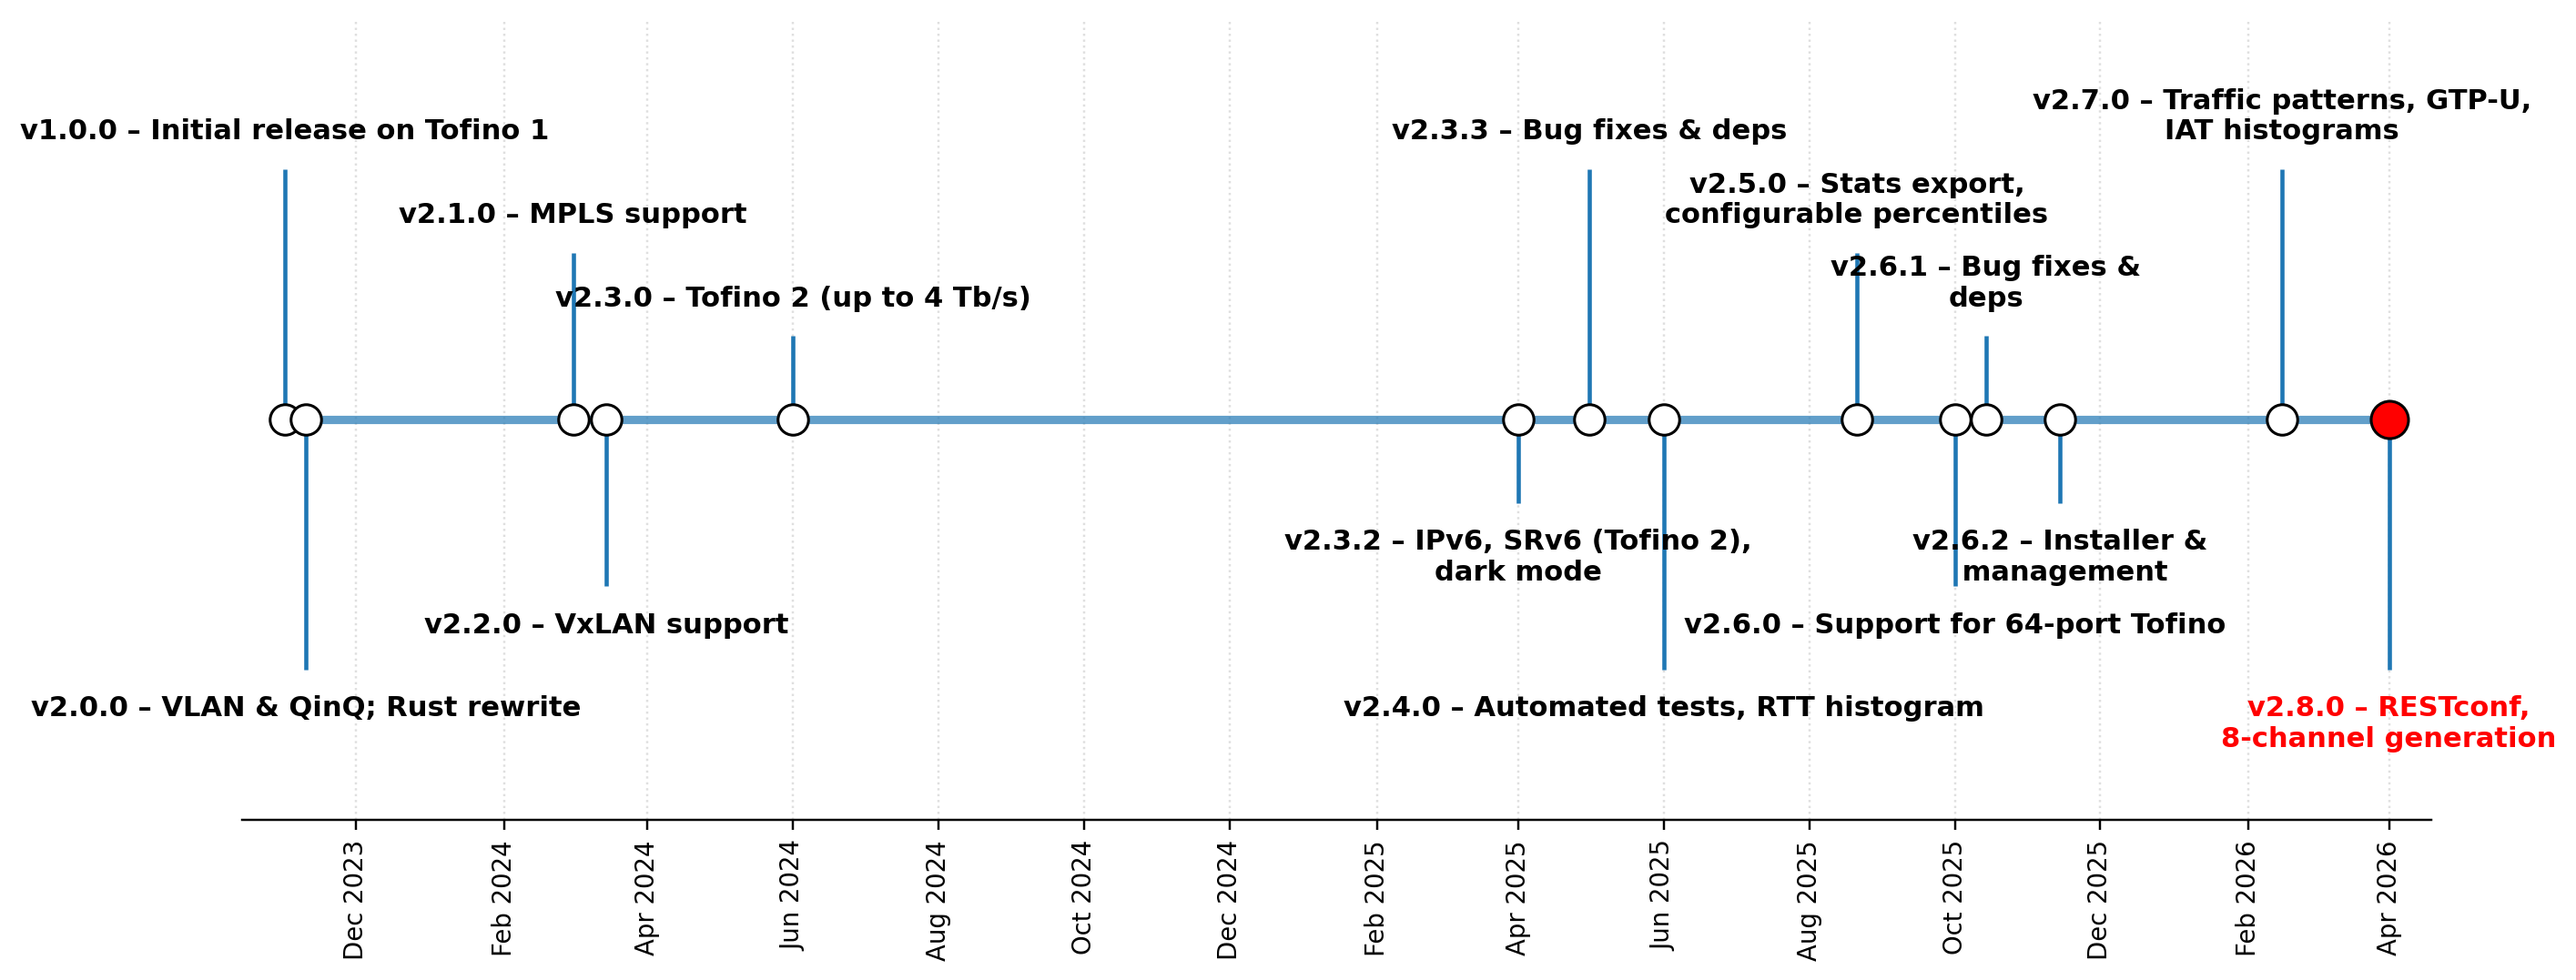
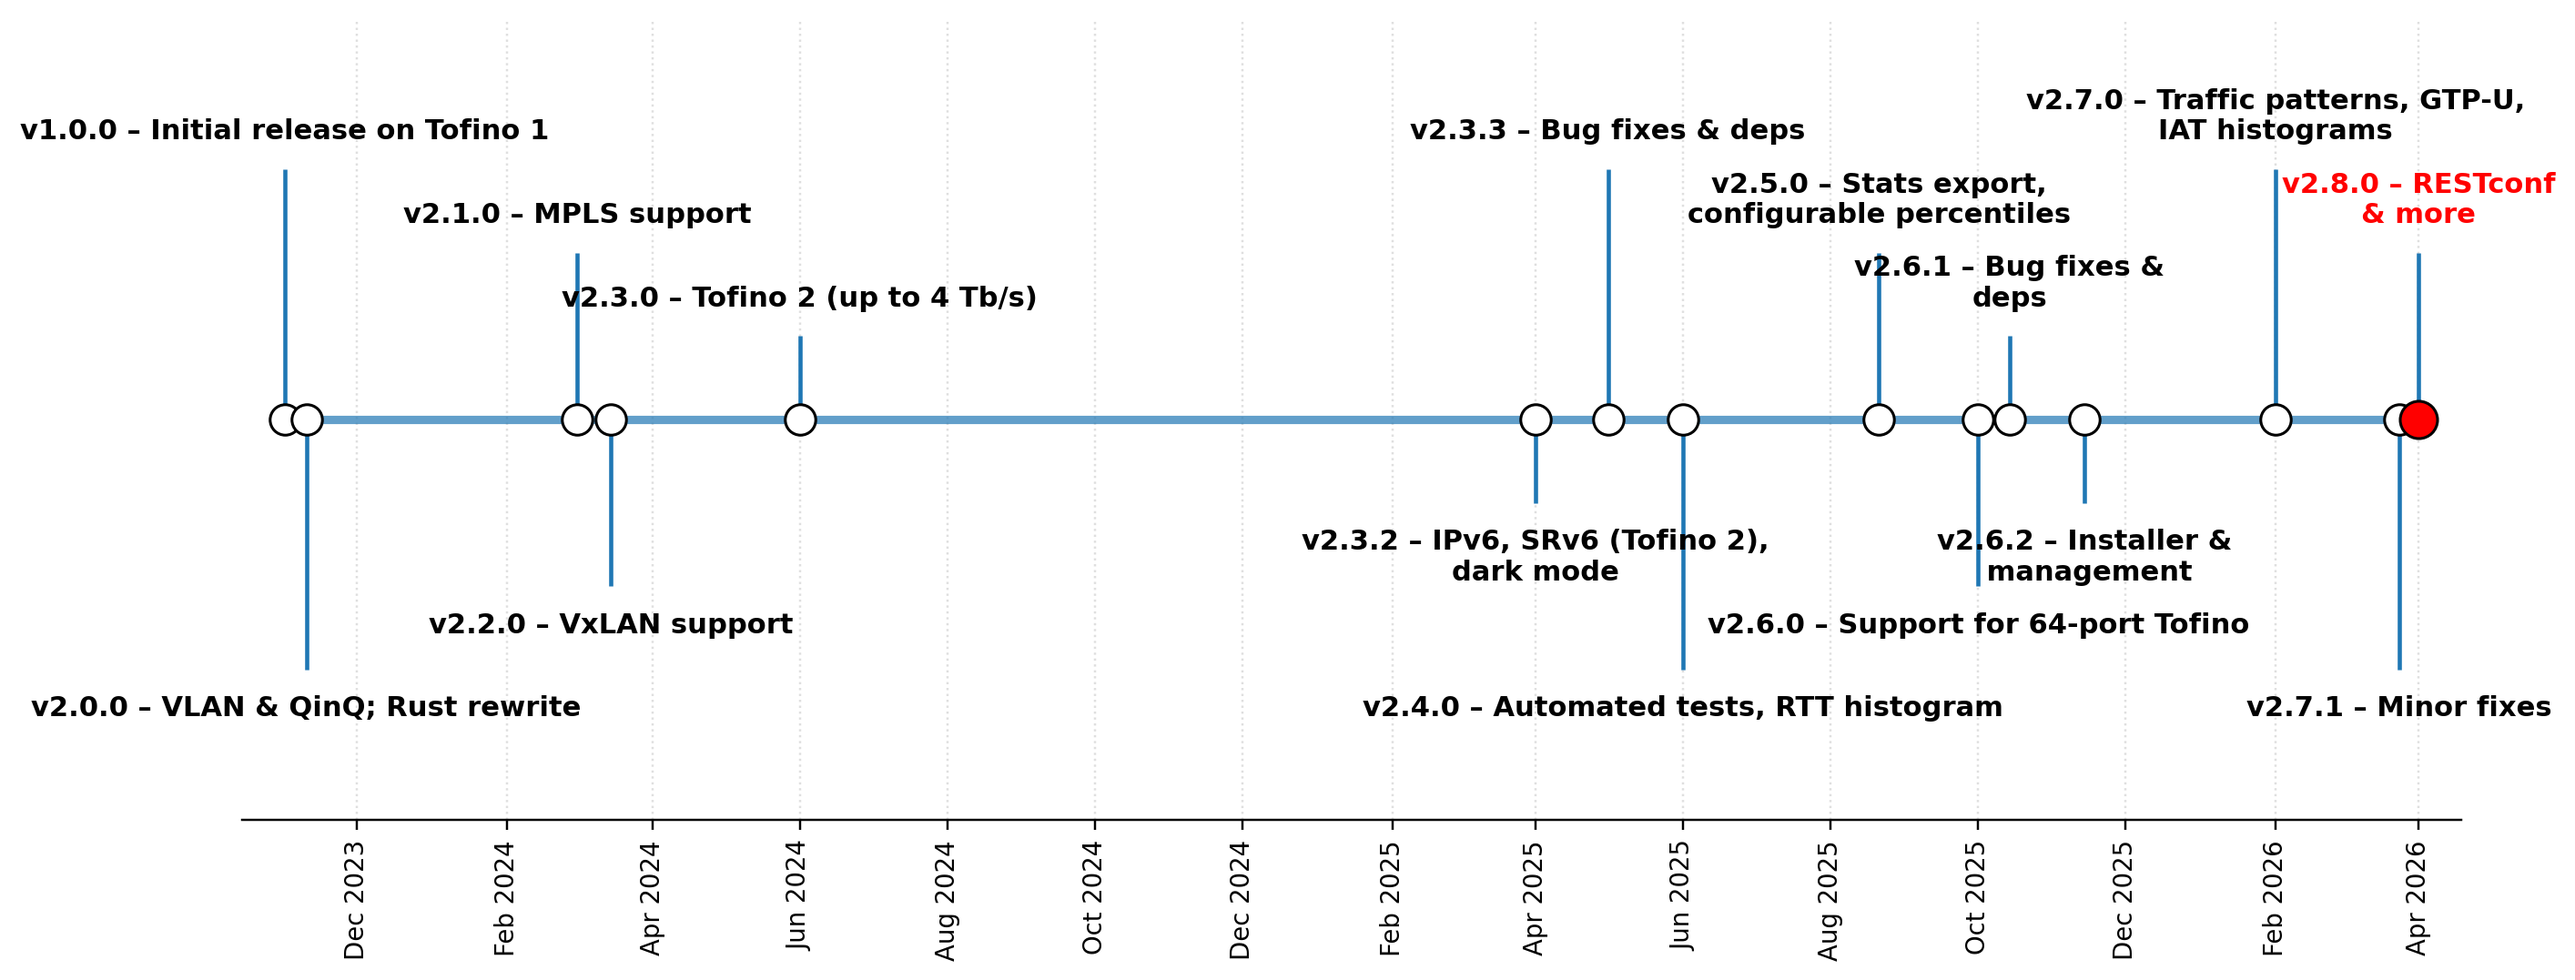
Update roadmap

diff --git a/Configuration GUI/src/App.tsx b/Configuration GUI/src/App.tsx
@@ -157,7 +157,7 @@ const App = () => {
                 <Modal.Title>Update available</Modal.Title>
             </Modal.Header>
             <Modal.Body>
-                A new P4TG release is available. Visit the releases page to download the latest version.
+                A new stable P4TG release is available. Visit the releases page to download the latest version.
             </Modal.Body>
             <Modal.Footer>
                 <Button variant="secondary" onClick={() => setShowUpdateModal(false)}>
